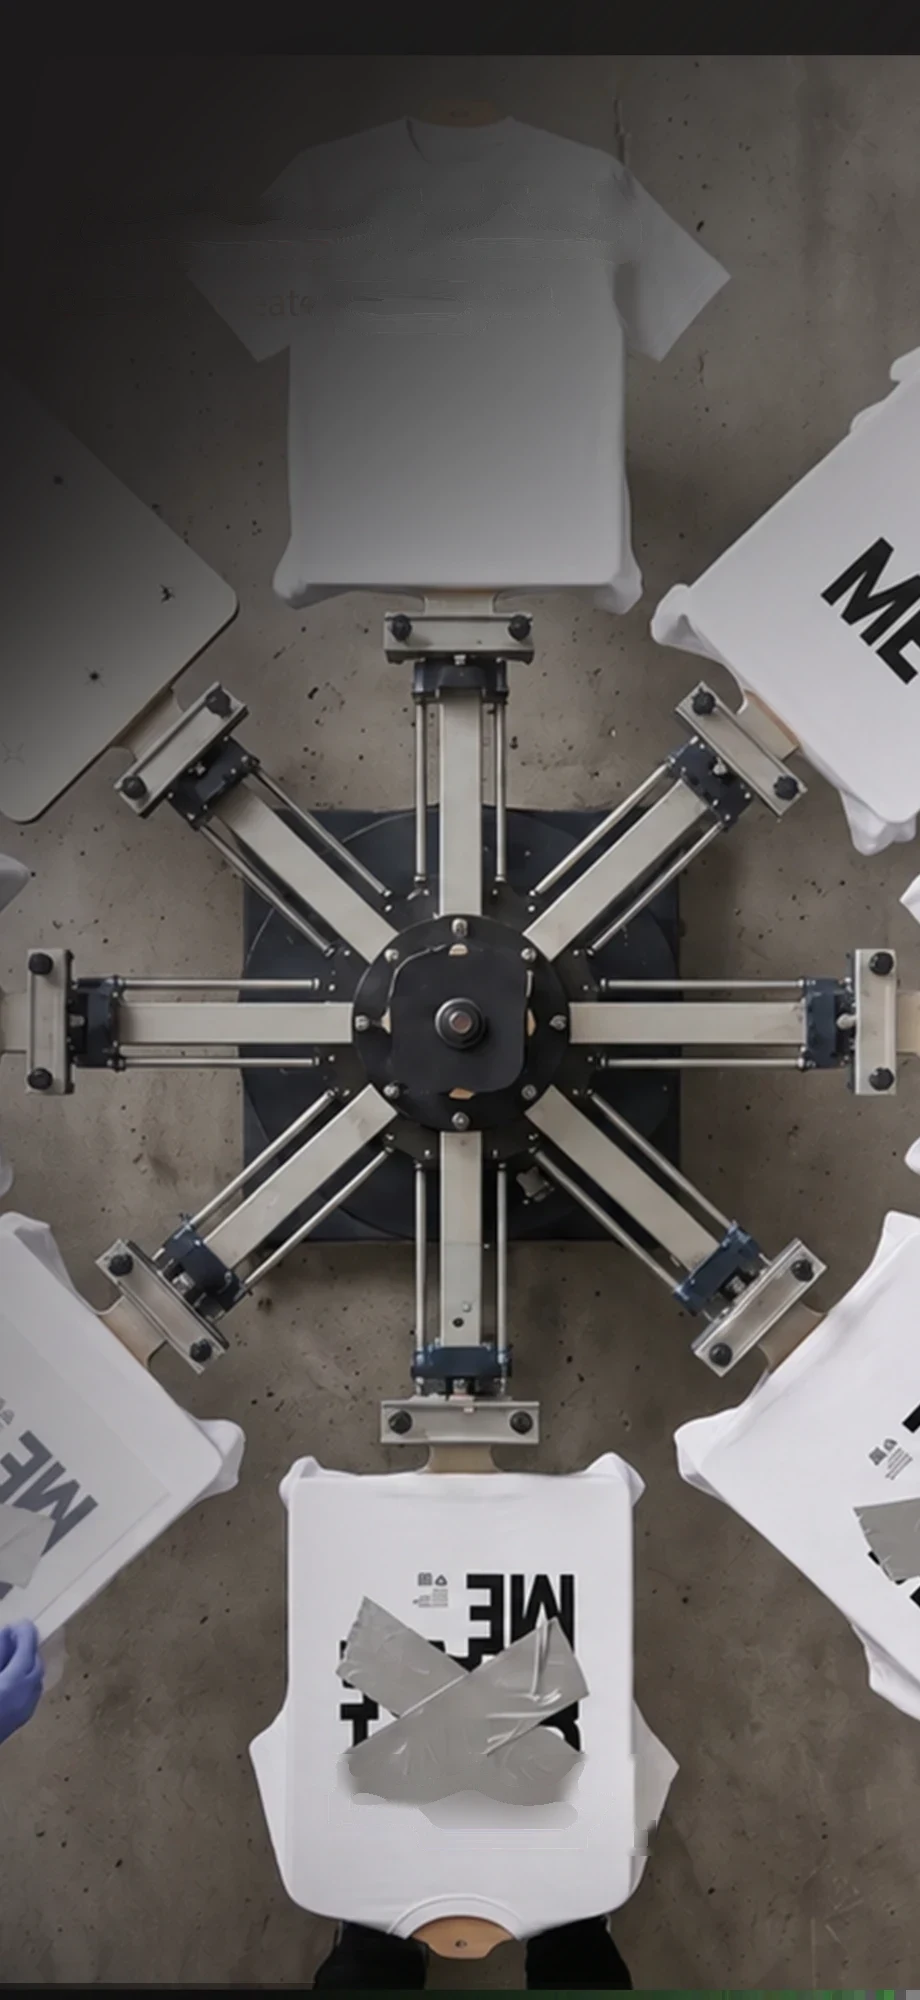
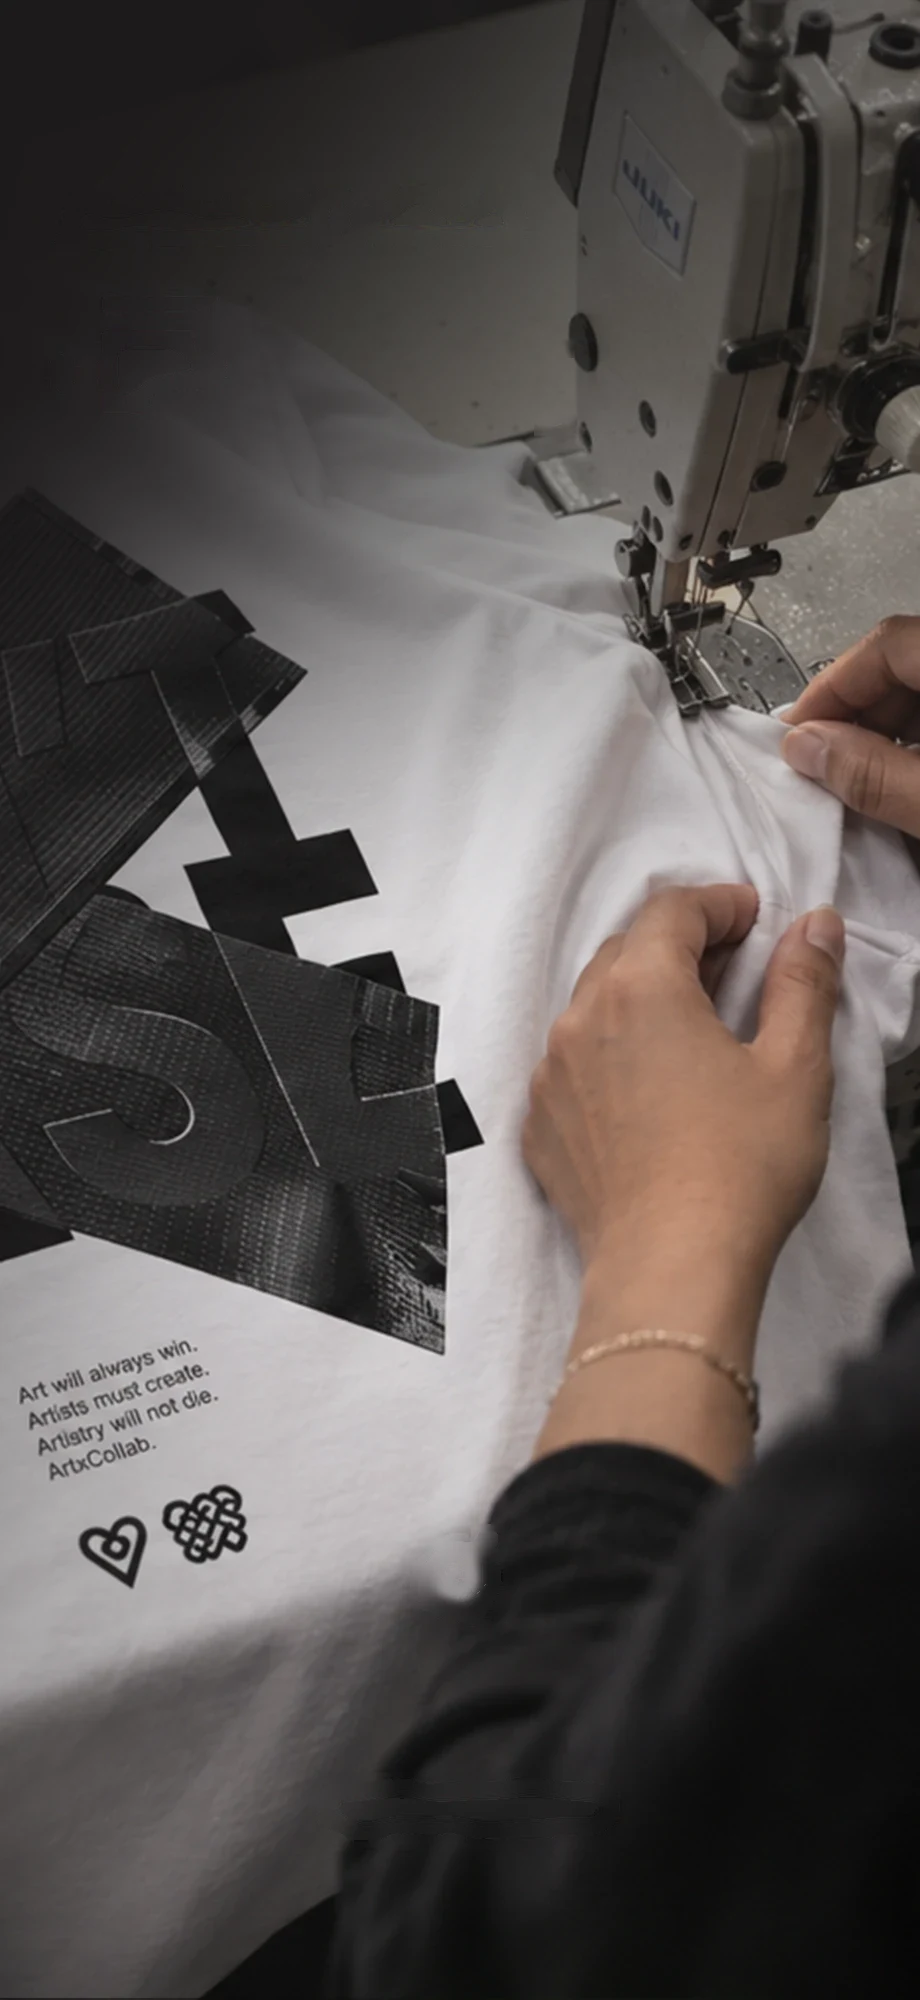
Rebuild Artist×Collab to the new 12-frame sequence
Adds a blurred intro frame and a closing runway "Get Started" frame,
swaps in the new Produce (sewing) and re-exported hero/create/sell photos
with baked text painted out, new Produce/Sell copy, and a single arrow
that sits in the same spot on every state.

diff --git a/public/artistxcollab/index.html b/public/artistxcollab/index.html
@@ -49,7 +49,7 @@
     background-size:120px 120px;}
 
   /* ---------- one pinned viewport, slides stacked in depth ---------- */
-  .story{position:relative;height:1200vh;height:1200svh;}
+  .story{position:relative;height:1470vh;height:1470svh;}
   .viewport{position:sticky;top:0;height:100vh;height:100svh;overflow:hidden;background:var(--ink);}
   .slide{position:absolute;inset:0;--p:0;--n:1;--e:0;visibility:hidden;}
   .slide.live{visibility:visible;}
@@ -58,7 +58,7 @@
     transform:translateY(calc((1 - var(--n)) * 6vh)) scale(calc((.84 + var(--n) * .16) * (1 - var(--e) * .07)));
     transform-origin:50% 48%;will-change:transform,opacity;
     box-shadow:0 30px 120px rgba(0,0,0,.7);}
-  #hero .slide-inner{animation:intro 1.8s cubic-bezier(.2,.7,.2,1) backwards;}
+  #intro .slide-inner{animation:intro 1.8s cubic-bezier(.2,.7,.2,1) backwards;}
   @keyframes intro{from{transform:scale(1.08);opacity:0;}to{transform:scale(1);opacity:1;}}
   .shade{position:absolute;inset:0;background:#000;opacity:calc(var(--e) * .8);pointer-events:none;z-index:6;}
 
@@ -78,12 +78,10 @@
     background-size:160px 160px;}
   .mask{display:none;}
 
-  .cue{position:absolute;left:50%;top:56%;z-index:3;width:clamp(44px,8vw,64px);aspect-ratio:1;border-radius:50%;
-    border:1px solid rgba(243,237,225,.7);color:var(--paper);display:grid;place-items:center;text-decoration:none;
-    transform:translate(-50%,-50%);opacity:calc(1 - var(--p) * 4);pointer-events:auto;}
-  .cue svg{width:44%;height:44%;fill:none;stroke:currentColor;stroke-width:1.4;stroke-linecap:round;stroke-linejoin:round;
-    animation:bob 2.4s ease-in-out infinite;}
   @keyframes bob{0%,100%{transform:translateY(-8%);}50%{transform:translateY(12%);}}
+  .slide.intro .wash,.slide.intro .wash-grain,.slide.final .wash,.slide.final .wash-grain{display:none;}
+  .slide.intro .card img,.slide.final .card img{transform:none;}
+  .slide.intro .card img{filter:blur(14px) brightness(.55);transform:scale(1.06);}
 
   /* ---------- fixed HUD: wordmark + step line, never moves ---------- */
   .viewport{--u:1vw;--ox:0px;--oy:0px;}
@@ -105,6 +103,9 @@
   .wm-main i{font-style:italic;}
   .hud:not(.is-hero) .wm-hero{opacity:0;transform:translateY(-8px);}
   .hud:not(.is-hero) .wm-main{opacity:1;transform:none;}
+  .hud.is-off{opacity:0;pointer-events:none;}
+  .brand{transition:opacity .5s ease;}
+  .brand.is-off{opacity:0;}
   .mask-wide,.wash-wide{display:none;}
   .sub{position:relative;margin-top:calc(1.4 * var(--u));height:calc(6 * var(--u));font-family:var(--ui);font-size:calc(4.2 * var(--u));line-height:1.2;}
   .tagline,.steps{position:absolute;left:0;top:0;white-space:nowrap;transition:opacity .6s ease, transform .6s ease;}
@@ -122,35 +123,39 @@
   .hud:not(.is-hero) .steps{opacity:1;transform:none;pointer-events:auto;}
 
   /* ---------- copy (mobile: over the photo, comp-style bars) ---------- */
-  .copy{position:absolute;left:0;right:0;top:43%;z-index:4;display:flex;flex-direction:column;align-items:stretch;pointer-events:none;}
-  .copy .next{pointer-events:auto;}
+  .copy{position:absolute;inset:0;z-index:4;pointer-events:none;}
   .kicker{display:none;font-size:11px;letter-spacing:.3em;text-transform:uppercase;color:var(--gold-dim);--s:.22;}
-  .stack{display:flex;flex-direction:column;align-items:flex-start;gap:.6vw;}
+  .stack{position:absolute;left:0;top:33.5%;display:flex;flex-direction:column;align-items:flex-start;gap:.6vw;}
   .stack span{display:inline-block;box-sizing:border-box;width:min(var(--bw,0vw),92vw);min-width:max-content;
     background:#0a0908;color:var(--paper);padding:1.9vw 5vw 1.9vw 5vw;
     text-transform:uppercase;line-height:1.1;white-space:nowrap;}
   .l1{font-weight:300;font-size:clamp(12px,3.9vw,18px);letter-spacing:.3em;color:rgba(243,237,225,.82);--s:.28;}
   .l2{font-weight:400;font-size:clamp(14px,4.5vw,21px);letter-spacing:.2em;--s:.37;}
   .l3{font-weight:700;font-size:clamp(15px,4.8vw,22px);letter-spacing:.12em;--s:.46;}
-  .lines{margin-top:12vw;padding:0 9vw;display:flex;flex-direction:column;gap:6vw;text-align:center;
+  .lines{position:absolute;left:0;right:0;top:60%;transform:translateY(-50%);padding:0 8vw;display:flex;flex-direction:column;gap:3.2vh;text-align:center;
     font-family:var(--sans-text);text-transform:uppercase;color:#0c0b0a;}
   .lines p{margin:0;line-height:1.55;}
   .line-a{font-weight:400;font-size:clamp(11px,3vw,16px);letter-spacing:.2em;--s:.56;}
   .line-b{font-weight:700;font-size:clamp(11px,3.1vw,16px);letter-spacing:.16em;--s:.64;}
-  .next{align-self:center;margin-top:9vw;width:clamp(36px,7.6vw,56px);aspect-ratio:1;border-radius:50%;
-    background:rgba(243,237,225,.55);color:#0c0b0a;display:grid;place-items:center;text-decoration:none;--s:.74;
+  /* one arrow, same spot on every slide (photo state and text state) */
+  .next{position:absolute;z-index:5;left:50%;top:79.2%;width:clamp(36px,7.6vw,56px);aspect-ratio:1;border-radius:50%;
+    transform:translate(-50%,-50%);background:rgba(243,237,225,.55);color:#0c0b0a;display:grid;place-items:center;text-decoration:none;
     transition:background .3s ease;}
   .next:hover{background:rgba(243,237,225,.8);}
-  .next svg{width:44%;height:44%;fill:none;stroke:currentColor;stroke-width:1.6;stroke-linecap:round;stroke-linejoin:round;}
+  .next svg{width:44%;height:44%;fill:none;stroke:currentColor;stroke-width:1.6;stroke-linecap:round;stroke-linejoin:round;
+    animation:bob 2.4s ease-in-out infinite;}
+  .slide.intro .next{background:transparent;border:1px solid rgba(243,237,225,.75);color:var(--paper);}
+  .get-started{position:absolute;z-index:5;left:calc(var(--ox) + 29.3 * var(--u));top:calc(var(--oy) + 127.2 * var(--u));
+    width:calc(41.3 * var(--u));height:calc(12 * var(--u));}
+  .intro-logo{position:absolute;z-index:5;left:50%;top:50%;width:31.5%;height:auto;transform:translate(-50%,-50%);pointer-events:none;}
 
-  .kicker,.stack span,.lines p,.next{
+  .kicker,.stack span,.lines p{
     --w:.3;
     --t:clamp(0, (var(--p) - var(--s)) / var(--w), 1);
     --te:calc(var(--t) * var(--t) * (3 - 2 * var(--t)));
     will-change:transform,opacity,clip-path;}
   .stack span{clip-path:inset(0 calc((1 - var(--te)) * 100%) 0 0);transform:translateX(calc((1 - var(--te)) * -26px));}
   .kicker,.lines p{opacity:var(--te);transform:translateY(calc((1 - var(--te)) * 14px));}
-  .next{opacity:var(--te);transform:translateY(calc((1 - var(--te)) * 10px));}
 
   /* ---------- desktop: portrait card + live copy ---------- */
   @media (min-width:900px){
@@ -170,21 +175,31 @@
     .wm-hero .dot{display:none;}
     .sub{margin-top:.9vw;height:2.2vw;font-size:clamp(15px,1.7vw,34px);}
     .steps{font-size:clamp(12px,1vw,20px);gap:.55em;}
-    .copy{top:0;bottom:0;left:50%;right:0;justify-content:center;padding:150px 72px 64px 24px;max-width:720px;}
+    .copy{inset:auto;top:0;bottom:0;left:50%;right:0;display:flex;flex-direction:column;justify-content:center;padding:150px 72px 64px 24px;max-width:720px;}
+    .stack,.lines{position:static;transform:none;}
+    .lines{margin-top:1.6vw;}
     .kicker{display:block;margin-bottom:18px;}
     .stack span{padding:.55vw 1.2vw .55vw 1.2vw;width:calc(var(--bw, 0vw) * .29);}
     .l1{font-size:clamp(13px,1.25vw,26px);}
     .l2{font-size:clamp(18px,1.7vw,34px);}
     .l3{font-size:clamp(19px,1.8vw,36px);}
     .stack{gap:.2vw;}
-    .lines{margin-top:1.6vw;padding:0 0 0 1.2vw;gap:1vw;text-align:left;max-width:36em;color:var(--paper-dim);}
+    .lines{padding:0 0 0 1.2vw;gap:1vw;text-align:left;max-width:36em;color:var(--paper-dim);}
     .line-a{font-size:clamp(11px,.95vw,20px);}
     .line-b{font-size:clamp(11px,1vw,20px);}
-    .next{align-self:flex-start;margin:1.8vw 0 0 1.2vw;width:clamp(40px,3.2vw,60px);background:rgba(243,237,225,.16);color:var(--paper);}
+    .next{left:auto;right:3vw;top:auto;bottom:3vw;transform:none;width:clamp(40px,3.2vw,60px);background:rgba(243,237,225,.16);color:var(--paper);}
     .next:hover{background:rgba(243,237,225,.3);}
+    .slide.final .frame{display:block;}
+    .slide.final .card{position:absolute;inset:0;width:auto;height:auto;margin:0;box-shadow:none;transform:none;}
+    .slide.final .card img{position:absolute;inset:0;width:100%;height:100%;object-fit:contain;}
+    .slide.final .backdrop{filter:blur(44px) brightness(.35);}
+    .get-started{left:calc(50% - 9.52svh);top:58.5svh;width:19svh;height:5.5svh;}
+    .slide.intro .next{left:50%;right:auto;top:79.2%;bottom:auto;transform:translate(-50%,-50%);}
+    .intro-logo{width:14vw;}
 
     /* full-bleed landscape slides */
     .wide .backdrop,.wide .kicker{display:none;}
+    .slide.intro .card img{filter:blur(16px) brightness(.5);}
     .wide .frame{display:block;perspective:none;}
     .wide .card{position:absolute;inset:0;width:auto;height:auto;margin:0;box-shadow:none;transform:none;}
     .wide .card img{position:absolute;inset:0;width:100%;height:100%;object-fit:cover;object-position:center;
@@ -197,27 +212,19 @@
     .wide .lines{color:#0c0b0a;}
     .wide .next{background:rgba(10,9,8,.12);color:#0c0b0a;}
     .wide .next:hover{background:rgba(10,9,8,.22);}
+    .slide.intro .next{background:transparent;color:var(--paper);}
     .wide .copy{padding-left:1.2vw;}
   }
 
   /* ---------- cta / footer ---------- */
-  .cta{position:relative;z-index:2;min-height:100vh;min-height:100svh;padding:120px 24px;text-align:center;background:var(--ink);
-    display:flex;flex-direction:column;justify-content:center;align-items:center;}
-  .cta h2{font-family:var(--serif);font-style:italic;font-weight:400;font-size:clamp(28px,6vw,52px);color:var(--tan);text-wrap:balance;}
-  .cta p{margin-top:14px;color:var(--paper-dim);font-size:15px;}
-  .cta a.btn{display:inline-flex;align-items:center;gap:10px;margin-top:34px;padding:16px 30px;
-    border:1px solid var(--paper);text-decoration:none;font-size:12px;letter-spacing:.2em;text-transform:uppercase;
-    transition:background .3s,color .3s;}
-  .cta a.btn:hover{background:var(--paper);color:var(--ink);}
-  footer{background:var(--ink);padding:36px 24px 48px;text-align:center;color:var(--paper-faint);
-    font-size:11px;letter-spacing:.16em;text-transform:uppercase;}
 
   @media (prefers-reduced-motion:reduce){
     .slide-inner,.card,.card .back,.card .front,.backdrop{transform:none !important;}
     .card .front{display:none;}
     #hero .slide-inner{animation:none;}
     .stack span,.kicker,.lines p,.next{transform:none;}
-    .cue svg{animation:none;}
+    .next svg{animation:none;}
+    .slide.intro .card img{transform:none;}
   }
 </style>
 </head>
@@ -248,7 +255,21 @@
 
     <img class="brand" src="/artistxcollab/img/inktheory-logo.png" alt="Ink Theory">
 
-    <section class="slide live wide" id="hero" style="z-index:1">
+    <section class="slide live wide intro" id="intro" data-len="1.5" style="z-index:1">
+      <div class="slide-inner">
+        <div class="frame"><div class="card">
+          <picture>
+            <source media="(min-width:900px)" srcset="/artistxcollab/img/1-wide.webp">
+            <img class="back" src="/artistxcollab/img/1.webp" alt="" aria-hidden="true">
+          </picture>
+        </div></div>
+        <img class="intro-logo" src="/artistxcollab/img/inktheory-logo.png" alt="Ink Theory">
+        <a class="next" href="#hero" aria-label="Start"><svg viewBox="0 0 24 24" aria-hidden="true"><path d="M6 9l6 6 6-6"/></svg></a>
+        <div class="shade"></div>
+      </div>
+    </section>
+
+    <section class="slide wide" id="hero" style="z-index:2">
       <div class="slide-inner">
         <img class="backdrop" src="/artistxcollab/img/1.webp" alt="" aria-hidden="true">
         <div class="frame"><div class="card">
@@ -273,9 +294,8 @@
             <p class="line-a">Runway quality organic + non-toxic collections.</p>
             <p class="line-b">Made for fans that want more.</p>
           </div>
-          <a class="next" href="#concept" aria-label="Next: Concept"><svg viewBox="0 0 24 24" aria-hidden="true"><path d="M6 9l6 6 6-6"/></svg></a>
         </div>
-        <a class="cue" href="#hero" aria-label="Continue"><svg viewBox="0 0 24 24" aria-hidden="true"><path d="M6 9l6 6 6-6"/></svg></a>
+        <a class="next" href="#concept" aria-label="Continue"><svg viewBox="0 0 24 24" aria-hidden="true"><path d="M6 9l6 6 6-6"/></svg></a>
         <div class="shade"></div>
       </div>
     </section>
@@ -300,9 +320,8 @@
             <p class="line-a">We translate the artists identity into a cohesive collection.</p>
             <p class="line-b">Runway ready detail that's commercially viable.</p>
           </div>
-          <a class="next" href="#create" aria-label="Next: Create"><svg viewBox="0 0 24 24" aria-hidden="true"><path d="M6 9l6 6 6-6"/></svg></a>
         </div>
-        <a class="cue" href="#concept" aria-label="Continue"><svg viewBox="0 0 24 24" aria-hidden="true"><path d="M6 9l6 6 6-6"/></svg></a>
+        <a class="next" href="#create" aria-label="Continue"><svg viewBox="0 0 24 24" aria-hidden="true"><path d="M6 9l6 6 6-6"/></svg></a>
         <div class="shade"></div>
       </div>
     </section>
@@ -327,9 +346,8 @@
             <p class="line-a">Our design studio refines every element.</p>
             <p class="line-b">Each pixel has a purpose.</p>
           </div>
-          <a class="next" href="#produce" aria-label="Next: Produce"><svg viewBox="0 0 24 24" aria-hidden="true"><path d="M6 9l6 6 6-6"/></svg></a>
         </div>
-        <a class="cue" href="#create" aria-label="Continue"><svg viewBox="0 0 24 24" aria-hidden="true"><path d="M6 9l6 6 6-6"/></svg></a>
+        <a class="next" href="#produce" aria-label="Continue"><svg viewBox="0 0 24 24" aria-hidden="true"><path d="M6 9l6 6 6-6"/></svg></a>
         <div class="shade"></div>
       </div>
     </section>
@@ -338,25 +356,23 @@
       <div class="slide-inner">
         <img class="backdrop" src="/artistxcollab/img/7.webp" alt="" aria-hidden="true">
         <div class="frame"><div class="card">
-          <img class="back" src="/artistxcollab/img/7.webp" alt="Produce — overhead view of a screen-print carousel loaded with tees">
+          <img class="back" src="/artistxcollab/img/7.webp" alt="Produce — a tee being finished on an industrial sewing machine">
           <img class="front" src="/artistxcollab/img/7.webp" alt="" aria-hidden="true">
-          <div class="mask"></div>
         </div></div>
         <div class="wash"></div><div class="wash-grain"></div>
         <div class="copy">
           <div class="kicker">03 — Produce</div>
           <div class="stack">
-            <span class="l1" style="--bw:84vw">State of the Art</span>
-            <span class="l2" style="--bw:70vw">Meets Cleaner</span>
-            <span class="l3" style="--bw:90vw">Production</span>
+            <span class="l1" style="--bw:83vw">Premium Craft</span>
+            <span class="l2" style="--bw:62vw">Meets Cleaner</span>
+            <span class="l3" style="--bw:59vw">Production</span>
           </div>
           <div class="lines">
-            <p class="line-a">Organic, non-toxic American cotton. Mineral infused.</p>
-            <p class="line-b">GOTS certified production.</p>
+            <p class="line-a">State-of-the-art facilities unite organic materials, non-toxic decoration + precision manufacturing.</p>
+            <p class="line-b">Sustainability at scale.</p>
           </div>
-          <a class="next" href="#sell" aria-label="Next: Sell"><svg viewBox="0 0 24 24" aria-hidden="true"><path d="M6 9l6 6 6-6"/></svg></a>
         </div>
-        <a class="cue" href="#produce" aria-label="Continue"><svg viewBox="0 0 24 24" aria-hidden="true"><path d="M6 9l6 6 6-6"/></svg></a>
+        <a class="next" href="#sell" aria-label="Continue"><svg viewBox="0 0 24 24" aria-hidden="true"><path d="M6 9l6 6 6-6"/></svg></a>
         <div class="shade"></div>
       </div>
     </section>
@@ -373,30 +389,33 @@
         <div class="copy">
           <div class="kicker">04 — Sell</div>
           <div class="stack">
-            <span class="l1" style="--bw:86vw">Built to Connect</span>
-            <span class="l2" style="--bw:74vw">Designed</span>
-            <span class="l3" style="--bw:90vw">To Sell</span>
+            <span class="l1" style="--bw:83vw">Built to Connect</span>
+            <span class="l2" style="--bw:46vw">Designed</span>
+            <span class="l3" style="--bw:71vw">To Sell</span>
           </div>
           <div class="lines">
-            <p class="line-a">E-commerce ready, tour prepped, drop strategy + product storytelling.</p>
-            <p class="line-b">Inventory, fulfillment + fan experience, handled.</p>
+            <p class="line-a">Each collection - prepared for exclusive drops, e-comm, touring &amp; fan experiences.</p>
+            <p class="line-b">Seamless fulfillment.</p>
           </div>
-          <a class="next" href="#cta" aria-label="Next: Start a collab"><svg viewBox="0 0 24 24" aria-hidden="true"><path d="M6 9l6 6 6-6"/></svg></a>
         </div>
-        <a class="cue" href="#sell" aria-label="Continue"><svg viewBox="0 0 24 24" aria-hidden="true"><path d="M6 9l6 6 6-6"/></svg></a>
+        <a class="next" href="#final" aria-label="Continue"><svg viewBox="0 0 24 24" aria-hidden="true"><path d="M6 9l6 6 6-6"/></svg></a>
+        <div class="shade"></div>
+      </div>
+    </section>
+
+    <section class="slide final" id="final" data-len="1.2" style="z-index:7">
+      <div class="slide-inner">
+        <img class="backdrop" src="/artistxcollab/img/final.webp" alt="" aria-hidden="true">
+        <div class="frame"><div class="card">
+          <img class="back" src="/artistxcollab/img/final.webp" alt="Ink Theory — a runway show; Get Started; trusted by Balenciaga, Givenchy, Celine, Bon &amp; Blanc, Louis Vuitton and Khaite">
+        </div></div>
+        <a class="get-started" href="https://www.inktheory.studio/" aria-label="Get started"></a>
         <div class="shade"></div>
       </div>
     </section>
 
   </div>
 </div>
-
-<section class="cta" id="cta">
-  <h2>Let's build the next drop.</h2>
-  <p>Concept. Create. Produce. Sell. — one platform, start to finish.</p>
-  <a class="btn" href="#story">Start a Collab</a>
-</section>
-<footer>Ink Theory Studio — Artist × Collab</footer>
 
 <script>
 (function(){
@@ -409,10 +428,13 @@
   var ul = document.getElementById('stepsUl');
   var links = Array.prototype.slice.call(stepsEl.querySelectorAll('a'));
 
-  var L = 2.4;          // viewports of scroll per slide
+  var L = 2.4;          // viewports of scroll per slide (default)
   var REVEAL = 0.9;     // copy reveals over the first 0.9 viewport
-  var EXIT = L - 1;     // the next slide comes forward during the last viewport
   var EASE = reduced ? 1 : 0.1;
+  var lens = slides.map(function(s){ return parseFloat(s.dataset.len) || L; });
+  var starts = lens.map(function(_, i){ return lens.slice(0, i).reduce(function(a, b){ return a + b; }, 0); });
+  story.style.height = (starts[starts.length - 1] + lens[lens.length - 1] + 1) * 100 + 'svh';
+  var brand = document.querySelector('.brand');
 
   var target = 0, smooth = 0, running = false, active = null, first = true;
 
@@ -439,20 +461,22 @@
   function apply(scroll){
     var vh = viewport.offsetHeight || window.innerHeight;
     var u0 = scroll / vh;
-    var current = 'hero', currentEl = slides[0];
+    var current = slides[0].id, currentEl = slides[0];
     slides.forEach(function(s, i){
-      var u = u0 - i * L;
+      var u = u0 - starts[i];
       var n = i === 0 ? 1 : clamp01(u + 1);
       var p = clamp01(u / REVEAL);
-      var e = i === slides.length - 1 ? 0 : clamp01(u - EXIT);
+      var e = i === slides.length - 1 ? 0 : clamp01(u - (lens[i] - 1));
       s.style.setProperty('--p', p.toFixed(4));
       s.style.setProperty('--n', smoothstep(n).toFixed(4));
       s.style.setProperty('--e', smoothstep(e).toFixed(4));
       s.classList.toggle('live', n > 0 && e < 1);
       if(n >= 0.5){ current = s.id; currentEl = s; }
     });
-    hud.dataset.baked = currentEl.classList.contains('baked') ? '1' : '0';
-    setActive(current);
+    var bare = currentEl.classList.contains('intro') || currentEl.classList.contains('final');
+    hud.classList.toggle('is-off', bare);
+    brand.classList.toggle('is-off', bare);
+    setActive(current === 'intro' ? 'hero' : current);
   }
 
   var lastTick = 0;
@@ -486,16 +510,7 @@
   measure();
   if(document.fonts && document.fonts.ready){ document.fonts.ready.then(function(){ moveUnderline(stepsEl.querySelector('a.active')); }); }
 
-  Array.prototype.forEach.call(document.querySelectorAll('.cue'), function(btn){
-    btn.addEventListener('click', function(ev){
-      ev.preventDefault();
-      var i = slides.indexOf(btn.closest('.slide'));
-      var vh = viewport.offsetHeight || window.innerHeight;
-      var top = story.getBoundingClientRect().top + window.scrollY + (i * L + 1.0) * vh;
-      window.scrollTo({top: top, behavior: reduced ? 'auto' : 'smooth'});
-    });
-  });
-
+  // arrow: photo state -> this slide's text state; text state -> next slide's photo state
   Array.prototype.forEach.call(document.querySelectorAll('.next'), function(btn){
     btn.addEventListener('click', function(ev){
       ev.preventDefault();
@@ -503,10 +518,11 @@
       var i = slides.indexOf(slide);
       var vh = viewport.offsetHeight || window.innerHeight;
       var storyTop = story.getBoundingClientRect().top + window.scrollY;
-      var top = i < slides.length - 1
-        ? storyTop + ((i + 1) * L + 1.0) * vh
-        : document.getElementById('cta').getBoundingClientRect().top + window.scrollY;
-      window.scrollTo({top: top, behavior: reduced ? 'auto' : 'smooth'});
+      var u = (window.scrollY - storyTop) / vh - starts[i];
+      var hasText = !!slide.querySelector('.copy');
+      var targetU = (hasText && u < REVEAL - 0.05) ? starts[i] + REVEAL + 0.1 : starts[i] + lens[i];
+      if(i === slides.length - 1) return;
+      window.scrollTo({top: storyTop + targetU * vh, behavior: reduced ? 'auto' : 'smooth'});
     });
   });
 
@@ -516,7 +532,7 @@
       var i = slides.findIndex(function(s){ return s.id === l.dataset.target; });
       if(i < 0) return;
       var vh = viewport.offsetHeight || window.innerHeight;
-      var top = story.getBoundingClientRect().top + window.scrollY + (i * L + 1.0) * vh;
+      var top = story.getBoundingClientRect().top + window.scrollY + (starts[i] + 1.0) * vh;
       window.scrollTo({top: top, behavior: reduced ? 'auto' : 'smooth'});
     });
   });
